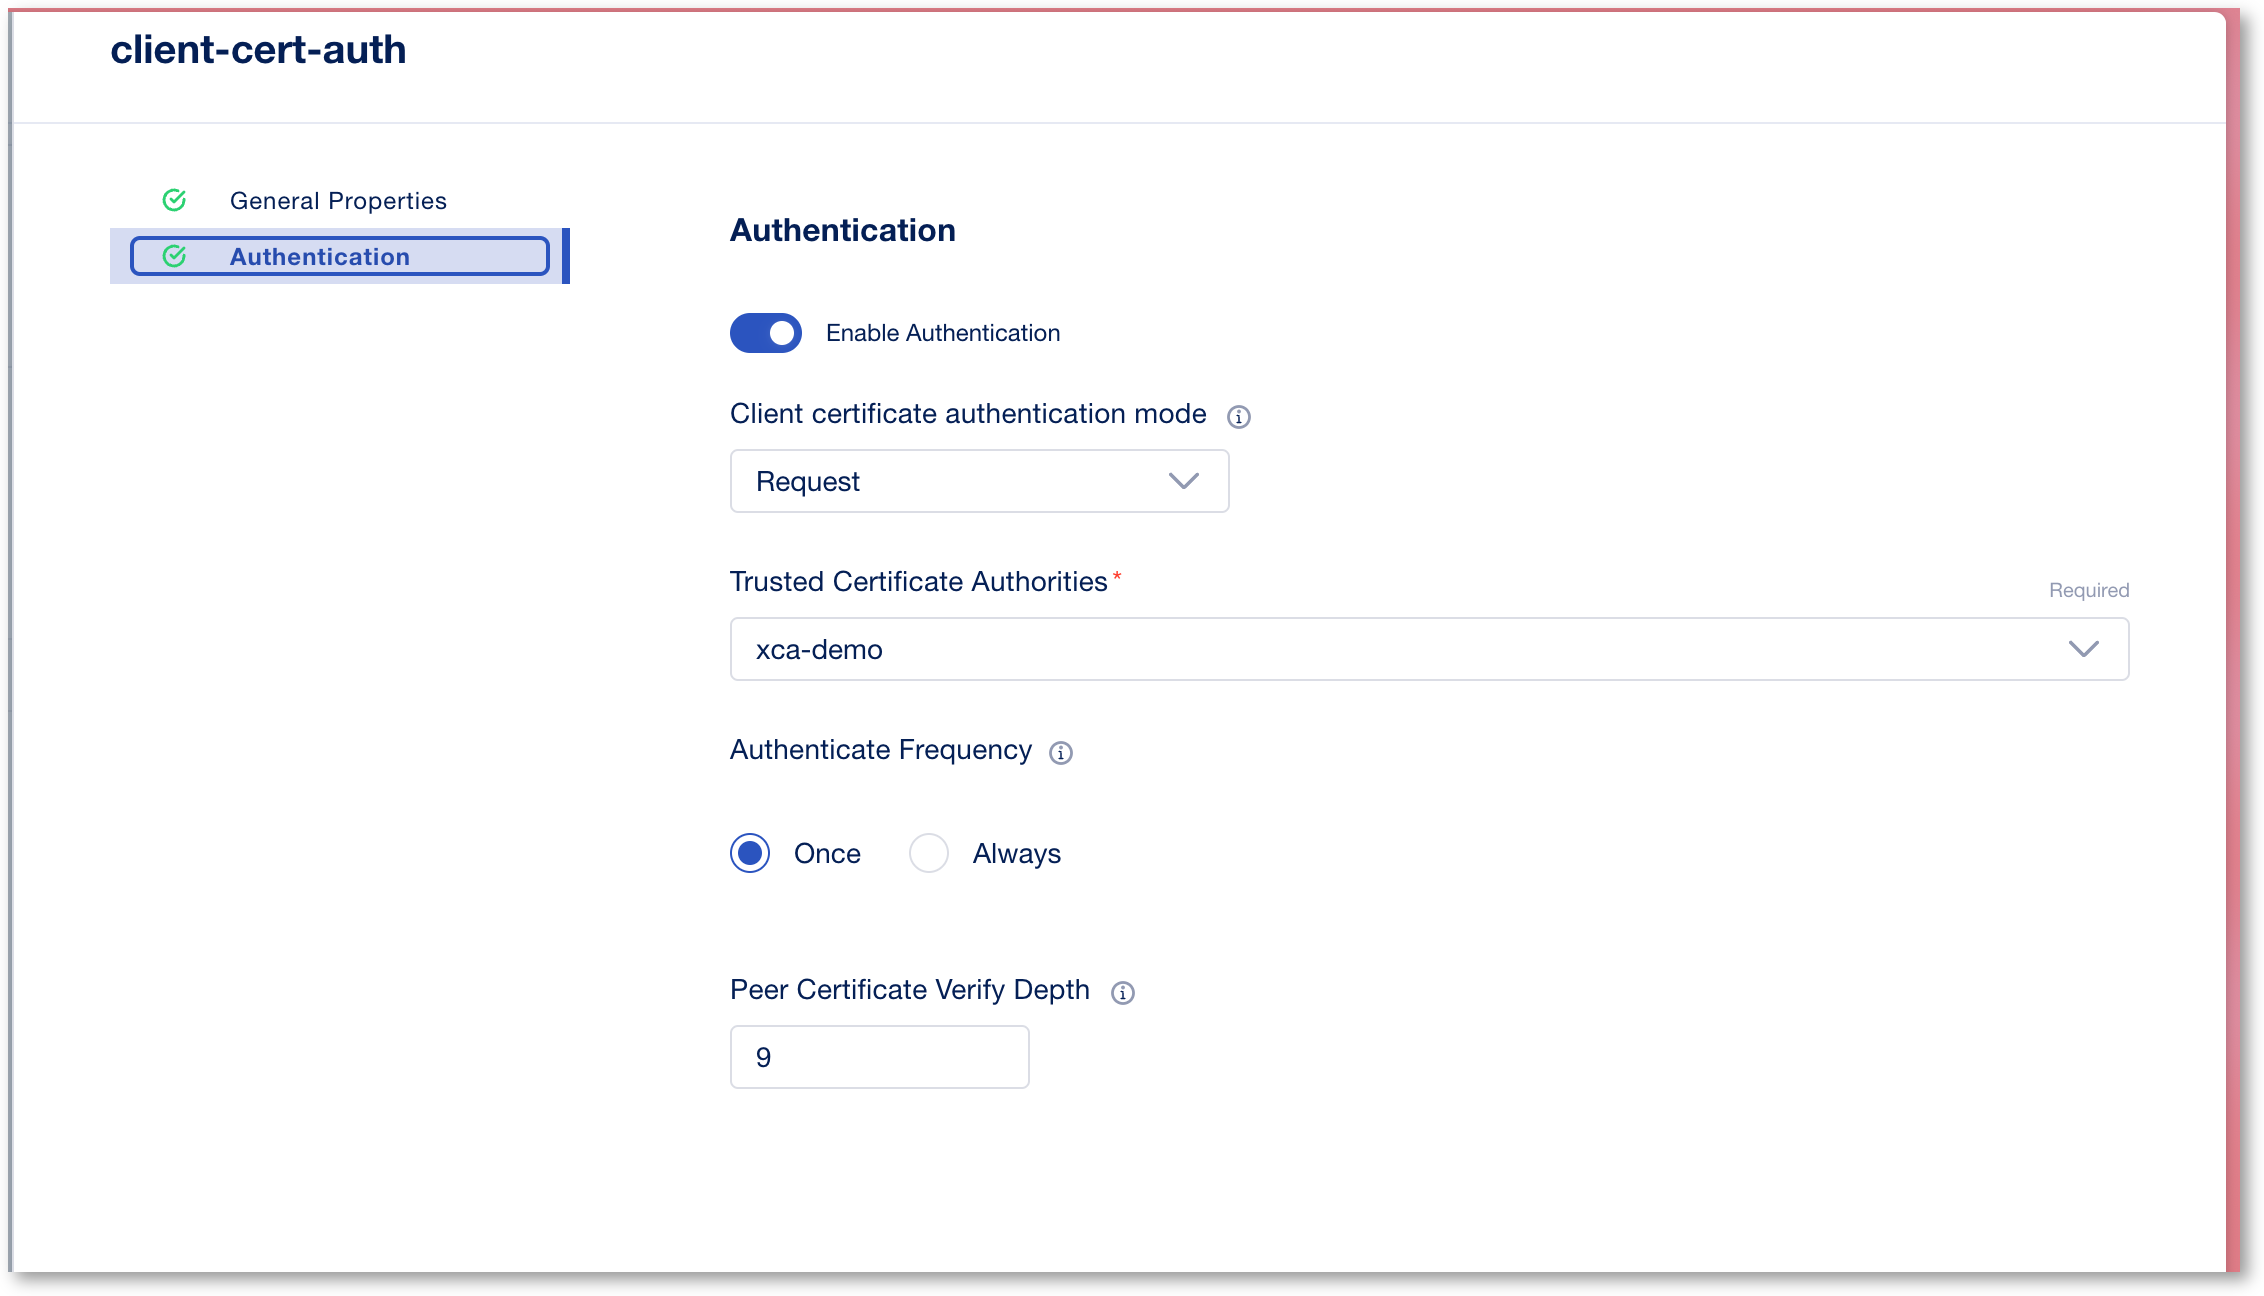
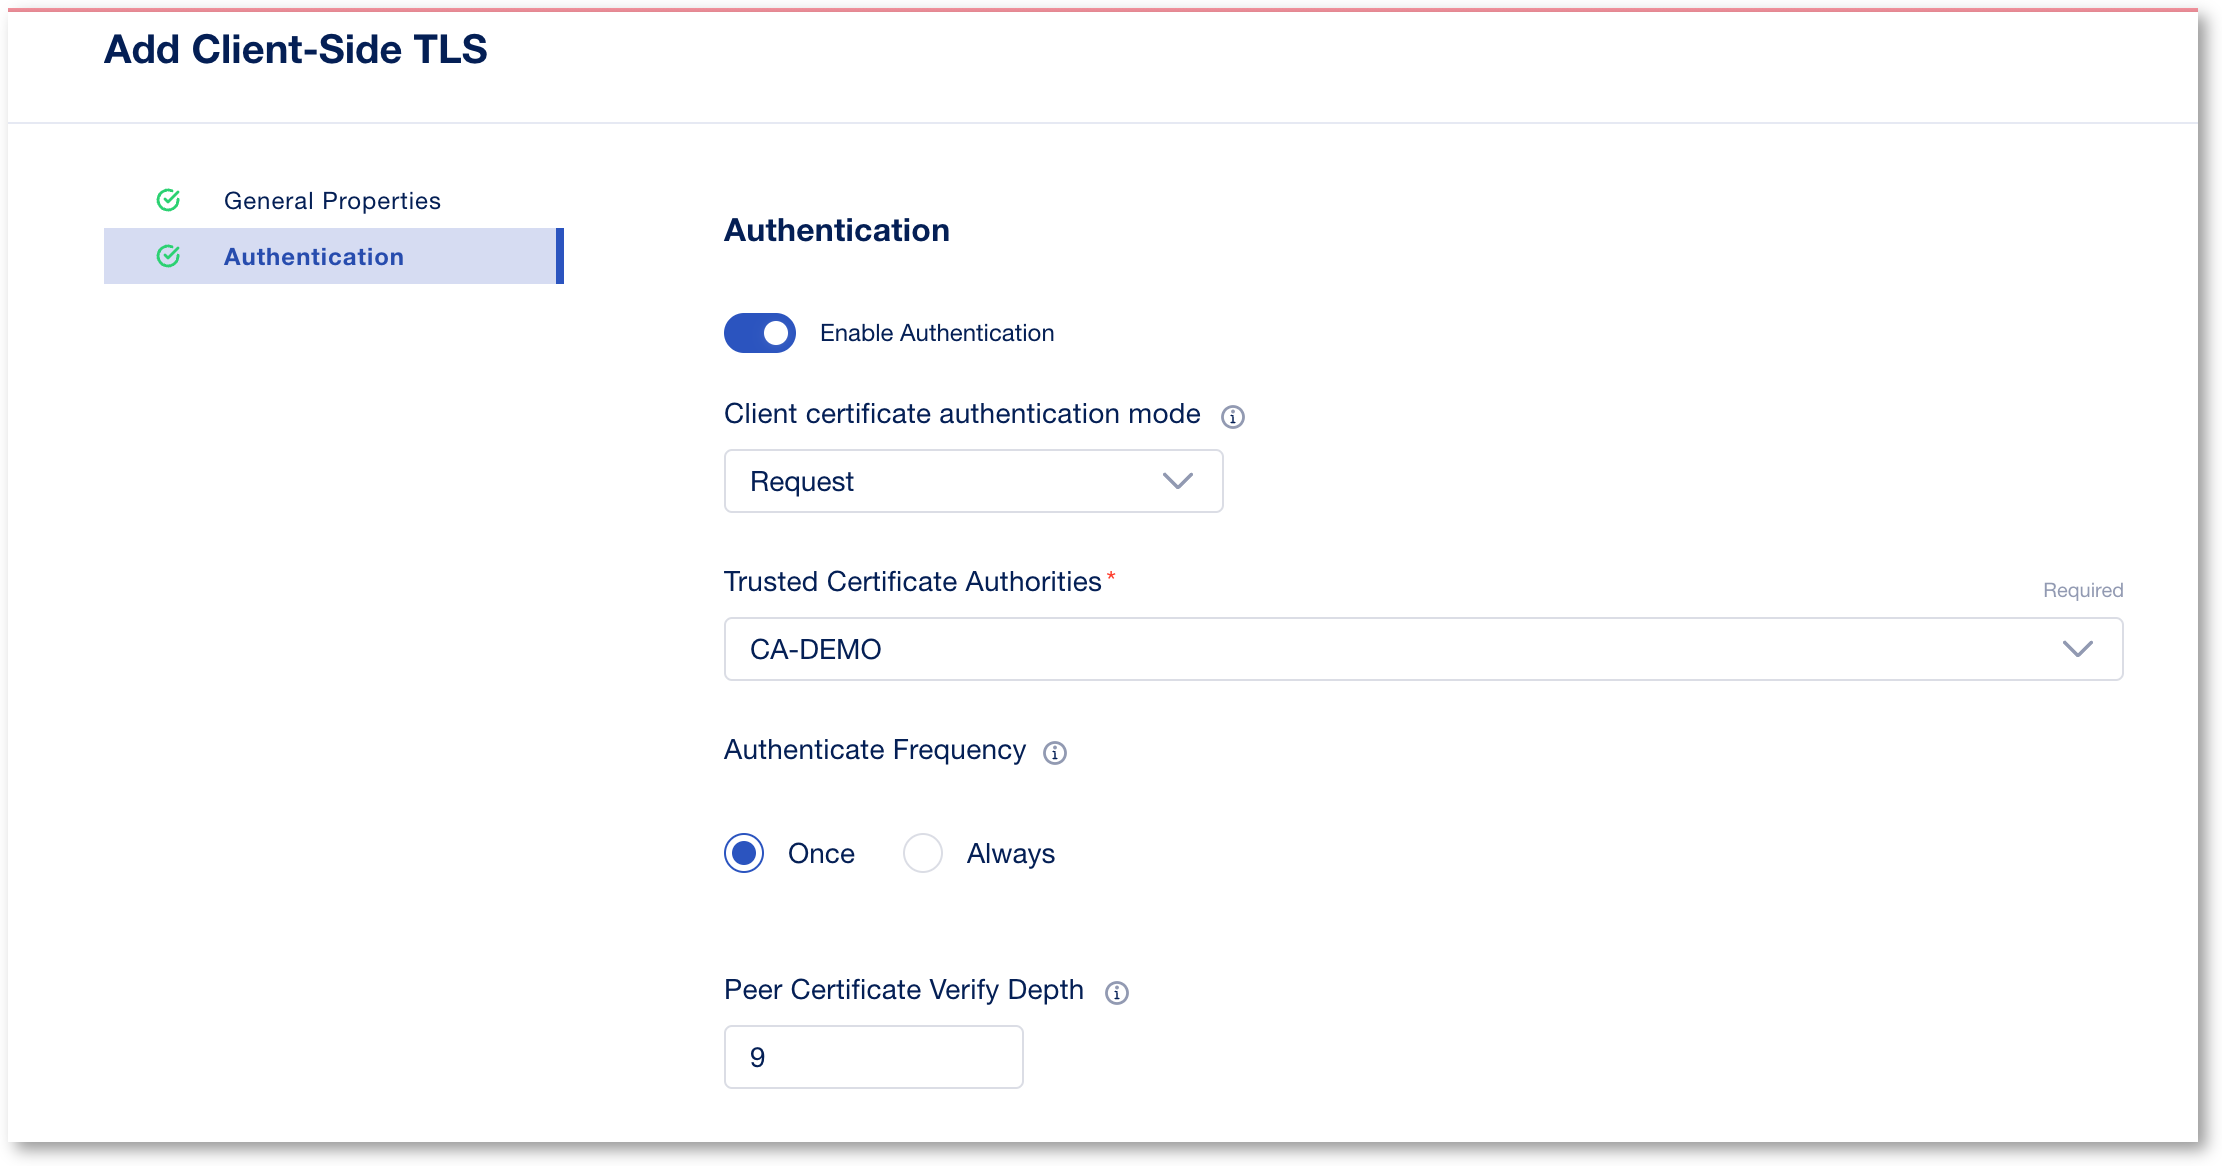
fix lab3

diff --git a/docs/class1/module3/lab3.rst b/docs/class1/module3/lab3.rst
@@ -66,7 +66,7 @@ Creating an application and assign an Access policy to the application
 11.  In Authentication menu, **Enable Authentication** with the following information
 
 - **Client certificate authentication mode** : Request
-- **Trusted Certificate Authorities** : xca-demo
+- **Trusted Certificate Authorities** : CA-DEMO
 - Click **Save**
 
 .. image:: images/lab3-profile-auth.png
